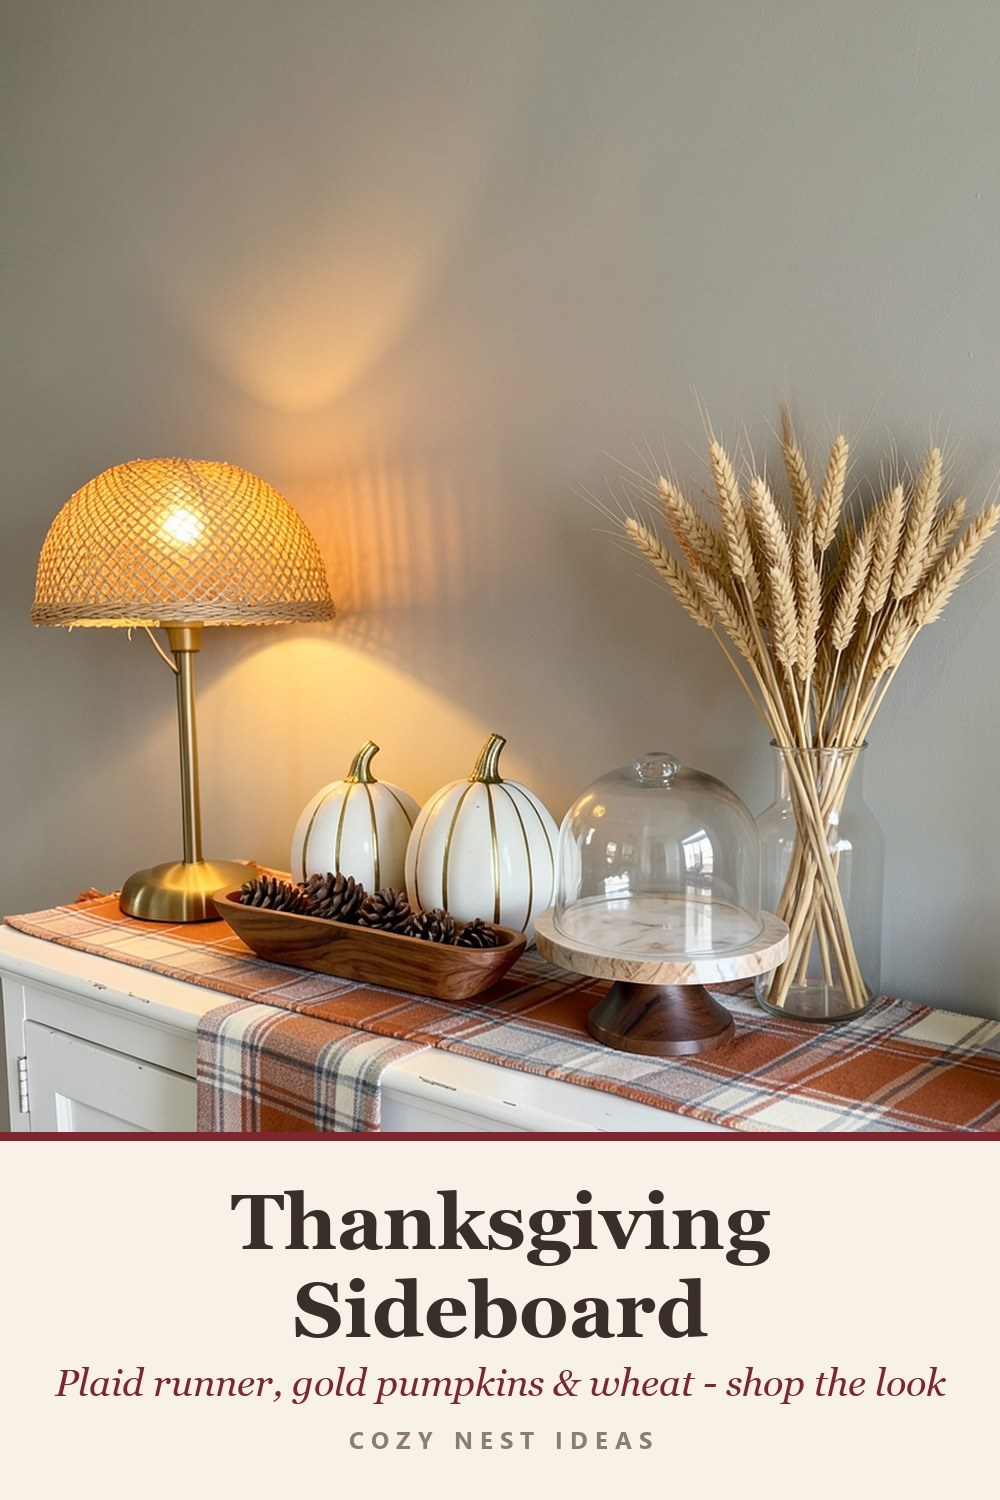
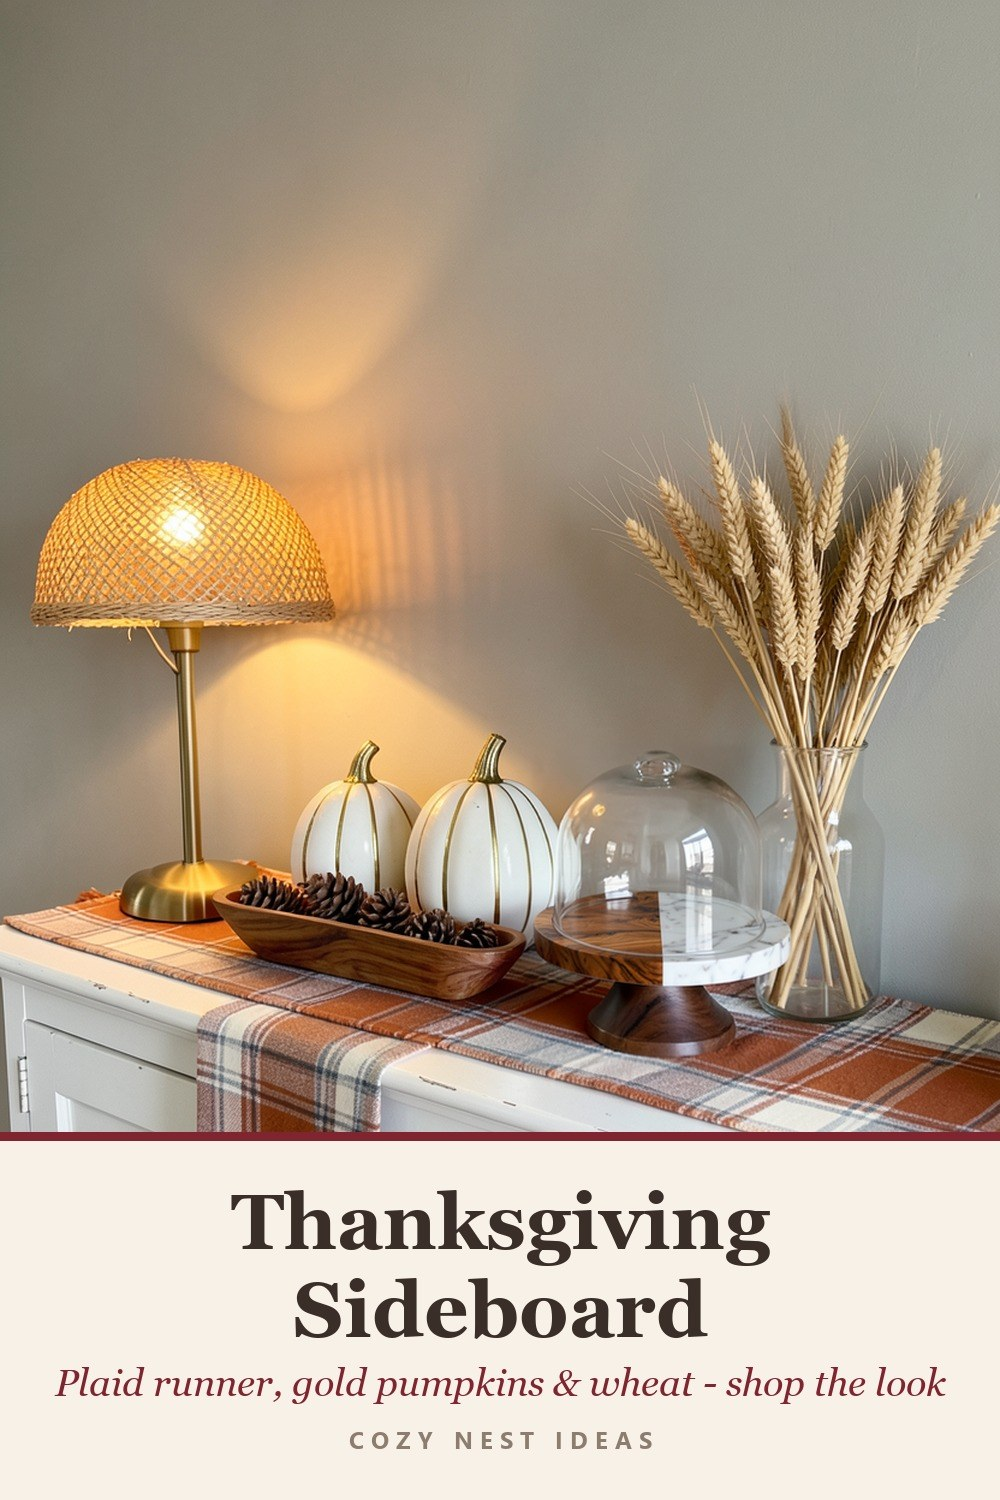
Thanksgiving sideboard: cake stand half wood half marble like the product

diff --git a/index.html b/index.html
@@ -3,7 +3,7 @@
 <meta name="p:domain_verify" content="4409502b235040ad3e69c63925a18982"/>
 <title>Cozy Nest Ideas | Cozy Nest Ideas</title>
 <meta name="description" content="Cozy home and seasonal decor ideas with shop-the-look lists.">
-<link rel="stylesheet" href="style.css?v=1793998222">
+<link rel="stylesheet" href="style.css?v=1793999030">
 <script data-goatcounter="https://cozynestideas.goatcounter.com/count" async src="//gc.zgo.at/count.js"></script></head><body><div class="wrap">
 <header><a href="index.html">C O Z Y &nbsp; N E S T &nbsp; I D E A S</a></header>
 <h1>Cozy home ideas</h1><p class="intro">Cozy, seasonal room ideas, each with the pieces to shop the look.</p><div class="grid"><a class="card" href="cozy-winter-bedroom/index.html"><img src="cozy-winter-bedroom/room.jpg" alt="Cozy Winter Bedroom Ideas" loading="lazy"><span>Cozy Winter Bedroom Ideas</span></a><a class="card" href="christmas-living-room/index.html"><img src="christmas-living-room/room.jpg" alt="Cozy Christmas Living Room Ideas" loading="lazy"><span>Cozy Christmas Living Room Ideas</span></a><a class="card" href="safari-nursery/index.html"><img src="safari-nursery/room.jpg" alt="Neutral Safari Nursery Ideas" loading="lazy"><span>Neutral Safari Nursery Ideas</span></a><a class="card" href="christmas-mantel/index.html"><img src="christmas-mantel/room.jpg" alt="Cozy Christmas Mantel Ideas" loading="lazy"><span>Cozy Christmas Mantel Ideas</span></a><a class="card" href="thanksgiving-table/index.html"><img src="thanksgiving-table/room.jpg" alt="Cozy Thanksgiving Table Ideas" loading="lazy"><span>Cozy Thanksgiving Table Ideas</span></a><a class="card" href="boho-nursery/index.html"><img src="boho-nursery/room.jpg" alt="Boho Baby Girl Nursery Ideas" loading="lazy"><span>Boho Baby Girl Nursery Ideas</span></a><a class="card" href="fall-reading-nook/index.html"><img src="fall-reading-nook/room.jpg" alt="Cozy Fall Reading Nook Ideas" loading="lazy"><span>Cozy Fall Reading Nook Ideas</span></a><a class="card" href="christmas-entryway/index.html"><img src="christmas-entryway/room.jpg" alt="Scandinavian Christmas Entryway Ideas" loading="lazy"><span>Scandinavian Christmas Entryway Ideas</span></a><a class="card" href="coffee-bar-ideas/index.html"><img src="coffee-bar-ideas/room.jpg" alt="Cozy Coffee Bar Ideas for Home" loading="lazy"><span>Cozy Coffee Bar Ideas for Home</span></a><a class="card" href="spa-bathroom-ideas/index.html"><img src="spa-bathroom-ideas/room.jpg" alt="Spa Bathroom Ideas on a Budget" loading="lazy"><span>Spa Bathroom Ideas on a Budget</span></a><a class="card" href="home-office-nook/index.html"><img src="home-office-nook/room.jpg" alt="Cozy Home Office Nook Ideas" loading="lazy"><span>Cozy Home Office Nook Ideas</span></a><a class="card" href="christmas-dinner-table/index.html"><img src="christmas-dinner-table/room.jpg" alt="Cozy Christmas Dinner Table Ideas" loading="lazy"><span>Cozy Christmas Dinner Table Ideas</span></a><a class="card" href="sage-laundry-room/index.html"><img src="sage-laundry-room/room.jpg" alt="Sage Green Laundry Room Ideas" loading="lazy"><span>Sage Green Laundry Room Ideas</span></a><a class="card" href="indoor-plant-corner/index.html"><img src="indoor-plant-corner/room.jpg" alt="Sunny Indoor Plant Corner Ideas" loading="lazy"><span>Sunny Indoor Plant Corner Ideas</span></a><a class="card" href="neutral-safari-nursery/index.html"><img src="neutral-safari-nursery/room.jpg" alt="Neutral Safari Nursery Ideas" loading="lazy"><span>Neutral Safari Nursery Ideas</span></a><a class="card" href="fall-front-porch/index.html"><img src="fall-front-porch/room.jpg" alt="Fall Front Porch Ideas" loading="lazy"><span>Fall Front Porch Ideas</span></a><a class="card" href="breakfast-nook-ideas/index.html"><img src="breakfast-nook-ideas/room.jpg" alt="Cozy Breakfast Nook Ideas" loading="lazy"><span>Cozy Breakfast Nook Ideas</span></a><a class="card" href="plaid-christmas-bedroom/index.html"><img src="plaid-christmas-bedroom/room.jpg" alt="Plaid Christmas Bedroom Ideas" loading="lazy"><span>Plaid Christmas Bedroom Ideas</span></a><a class="card" href="japandi-living-room/index.html"><img src="japandi-living-room/room.jpg" alt="Calm Japandi Living Room Ideas" loading="lazy"><span>Calm Japandi Living Room Ideas</span></a><a class="card" href="fall-bar-cart/index.html"><img src="fall-bar-cart/room.jpg" alt="Cozy Fall Bar Cart Ideas" loading="lazy"><span>Cozy Fall Bar Cart Ideas</span></a><a class="card" href="small-apartment-christmas/index.html"><img src="small-apartment-christmas/room.jpg" alt="Small Apartment Christmas Ideas" loading="lazy"><span>Small Apartment Christmas Ideas</span></a><a class="card" href="thanksgiving-sideboard/index.html"><img src="thanksgiving-sideboard/room.jpg" alt="Thanksgiving Sideboard Decor Ideas" loading="lazy"><span>Thanksgiving Sideboard Decor Ideas</span></a></div>

diff --git a/christmas-mantel/index.html b/christmas-mantel/index.html
@@ -3,7 +3,7 @@
 <meta name="p:domain_verify" content="4409502b235040ad3e69c63925a18982"/>
 <title>Cozy Christmas Mantel Ideas | Cozy Nest Ideas</title>
 <meta name="description" content="A classic, glowing Christmas mantel: a lush pine garland with pine cones, a lit berry wreath, brass candlesticks with fluted taper candles, sage pillar candles, a tiny lit wooden village and chunky knit stockings. Here are the pieces to recreate it.">
-<link rel="stylesheet" href="../style.css?v=1793998222">
+<link rel="stylesheet" href="../style.css?v=1793999030">
 <script data-goatcounter="https://cozynestideas.goatcounter.com/count" async src="//gc.zgo.at/count.js"></script></head><body><div class="wrap">
 <header><a href="../index.html">C O Z Y &nbsp; N E S T &nbsp; I D E A S</a></header>
 <div class="disc">As an Amazon Associate I earn from qualifying purchases. Links on this page are affiliate links.</div>

diff --git a/thanksgiving-table/index.html b/thanksgiving-table/index.html
@@ -3,7 +3,7 @@
 <meta name="p:domain_verify" content="4409502b235040ad3e69c63925a18982"/>
 <title>Cozy Thanksgiving Table Ideas | Cozy Nest Ideas</title>
 <meta name="description" content="A warm, candlelit Thanksgiving table: a soft taupe linen tablecloth, a pine and eucalyptus runner dotted with cream and orange pumpkins, tall brown taper candles in brass and glowing amber votives. Here are the pieces to set it.">
-<link rel="stylesheet" href="../style.css?v=1793998222">
+<link rel="stylesheet" href="../style.css?v=1793999030">
 <script data-goatcounter="https://cozynestideas.goatcounter.com/count" async src="//gc.zgo.at/count.js"></script></head><body><div class="wrap">
 <header><a href="../index.html">C O Z Y &nbsp; N E S T &nbsp; I D E A S</a></header>
 <div class="disc">As an Amazon Associate I earn from qualifying purchases. Links on this page are affiliate links.</div>

diff --git a/boho-nursery/index.html b/boho-nursery/index.html
@@ -3,7 +3,7 @@
 <meta name="p:domain_verify" content="4409502b235040ad3e69c63925a18982"/>
 <title>Boho Baby Girl Nursery Ideas | Cozy Nest Ideas</title>
 <meta name="description" content="A calm, airy boho nursery: a natural oak crib, soft floral sheets in pink and beige, a dusty rose macrame hanging, a wood bead garland, a faux olive tree and a fluffy tassel rug. Here are the pieces to recreate it.">
-<link rel="stylesheet" href="../style.css?v=1793998222">
+<link rel="stylesheet" href="../style.css?v=1793999030">
 <script data-goatcounter="https://cozynestideas.goatcounter.com/count" async src="//gc.zgo.at/count.js"></script></head><body><div class="wrap">
 <header><a href="../index.html">C O Z Y &nbsp; N E S T &nbsp; I D E A S</a></header>
 <div class="disc">As an Amazon Associate I earn from qualifying purchases. Links on this page are affiliate links.</div>

diff --git a/cozy-winter-bedroom/index.html b/cozy-winter-bedroom/index.html
@@ -3,7 +3,7 @@
 <meta name="p:domain_verify" content="4409502b235040ad3e69c63925a18982"/>
 <title>Cozy Winter Bedroom Ideas | Cozy Nest Ideas</title>
 <meta name="description" content="A soft, warm bedroom for long winter nights: a cloud-like white comforter, deep burgundy velvet, a plush grey sherpa throw and the glow of fairy lights and flickering candles. Here are the pieces to recreate the look.">
-<link rel="stylesheet" href="../style.css?v=1793998222">
+<link rel="stylesheet" href="../style.css?v=1793999030">
 <script data-goatcounter="https://cozynestideas.goatcounter.com/count" async src="//gc.zgo.at/count.js"></script></head><body><div class="wrap">
 <header><a href="../index.html">C O Z Y &nbsp; N E S T &nbsp; I D E A S</a></header>
 <div class="disc">As an Amazon Associate I earn from qualifying purchases. Links on this page are affiliate links.</div>

diff --git a/fall-reading-nook/index.html b/fall-reading-nook/index.html
@@ -3,7 +3,7 @@
 <meta name="p:domain_verify" content="4409502b235040ad3e69c63925a18982"/>
 <title>Cozy Fall Reading Nook Ideas | Cozy Nest Ideas</title>
 <meta name="description" content="A snug reading corner for autumn: a cloud-like sherpa barrel chair, a chunky knit throw, a chocolate corduroy pillow, a warm arc lamp, rustic floating shelves and a pumpkin candle burning on the side table.">
-<link rel="stylesheet" href="../style.css?v=1793998222">
+<link rel="stylesheet" href="../style.css?v=1793999030">
 <script data-goatcounter="https://cozynestideas.goatcounter.com/count" async src="//gc.zgo.at/count.js"></script></head><body><div class="wrap">
 <header><a href="../index.html">C O Z Y &nbsp; N E S T &nbsp; I D E A S</a></header>
 <div class="disc">As an Amazon Associate I earn from qualifying purchases. Links on this page are affiliate links.</div>

diff --git a/small-apartment-christmas/index.html b/small-apartment-christmas/index.html
@@ -3,7 +3,7 @@
 <meta name="p:domain_verify" content="4409502b235040ad3e69c63925a18982"/>
 <title>Small Apartment Christmas Ideas | Cozy Nest Ideas</title>
 <meta name="description" content="Christmas in a small space: a skinny pre-lit spruce in a woven basket collar, gold mercury glass ornaments, green corduroy pillows, a chunky knit throw and dried orange garland strands in the window.">
-<link rel="stylesheet" href="../style.css?v=1793998222">
+<link rel="stylesheet" href="../style.css?v=1793999030">
 <script data-goatcounter="https://cozynestideas.goatcounter.com/count" async src="//gc.zgo.at/count.js"></script></head><body><div class="wrap">
 <header><a href="../index.html">C O Z Y &nbsp; N E S T &nbsp; I D E A S</a></header>
 <div class="disc">As an Amazon Associate I earn from qualifying purchases. Links on this page are affiliate links.</div>

diff --git a/thanksgiving-sideboard/index.html b/thanksgiving-sideboard/index.html
@@ -3,7 +3,7 @@
 <meta name="p:domain_verify" content="4409502b235040ad3e69c63925a18982"/>
 <title>Thanksgiving Sideboard Decor Ideas | Cozy Nest Ideas</title>
 <meta name="description" content="A warm Thanksgiving sideboard: a rust plaid runner, a long wooden dough bowl of pine cones, gold-ribbed ceramic pumpkins, a cake stand with a glass cloche, dried wheat and a glowing rattan lamp.">
-<link rel="stylesheet" href="../style.css?v=1793998222">
+<link rel="stylesheet" href="../style.css?v=1793999030">
 <script data-goatcounter="https://cozynestideas.goatcounter.com/count" async src="//gc.zgo.at/count.js"></script></head><body><div class="wrap">
 <header><a href="../index.html">C O Z Y &nbsp; N E S T &nbsp; I D E A S</a></header>
 <div class="disc">As an Amazon Associate I earn from qualifying purchases. Links on this page are affiliate links.</div>

diff --git a/christmas-living-room/index.html b/christmas-living-room/index.html
@@ -3,7 +3,7 @@
 <meta name="p:domain_verify" content="4409502b235040ad3e69c63925a18982"/>
 <title>Cozy Christmas Living Room Ideas | Cozy Nest Ideas</title>
 <meta name="description" content="A warm, classic Christmas corner: a glowing pre-lit tree in champagne ornaments, cable-knit stockings on a garland-draped mantel, flickering candles and soft velvet and sherpa layers on the sofa.">
-<link rel="stylesheet" href="../style.css?v=1793998222">
+<link rel="stylesheet" href="../style.css?v=1793999030">
 <script data-goatcounter="https://cozynestideas.goatcounter.com/count" async src="//gc.zgo.at/count.js"></script></head><body><div class="wrap">
 <header><a href="../index.html">C O Z Y &nbsp; N E S T &nbsp; I D E A S</a></header>
 <div class="disc">As an Amazon Associate I earn from qualifying purchases. Links on this page are affiliate links.</div>

diff --git a/christmas-entryway/index.html b/christmas-entryway/index.html
@@ -3,7 +3,7 @@
 <meta name="p:domain_verify" content="4409502b235040ad3e69c63925a18982"/>
 <title>Scandinavian Christmas Entryway Ideas | Cozy Nest Ideas</title>
 <meta name="description" content="A bright, simple Christmas welcome: a slim snow-flocked tree, a eucalyptus wreath on a round mirror, a bamboo bench with a tartan pillow, glowing lanterns and a cozy woven blanket basket.">
-<link rel="stylesheet" href="../style.css?v=1793998222">
+<link rel="stylesheet" href="../style.css?v=1793999030">
 <script data-goatcounter="https://cozynestideas.goatcounter.com/count" async src="//gc.zgo.at/count.js"></script></head><body><div class="wrap">
 <header><a href="../index.html">C O Z Y &nbsp; N E S T &nbsp; I D E A S</a></header>
 <div class="disc">As an Amazon Associate I earn from qualifying purchases. Links on this page are affiliate links.</div>

diff --git a/safari-nursery/index.html b/safari-nursery/index.html
@@ -3,7 +3,7 @@
 <meta name="p:domain_verify" content="4409502b235040ad3e69c63925a18982"/>
 <title>Neutral Safari Nursery Ideas | Cozy Nest Ideas</title>
 <meta name="description" content="A calm, gender-neutral safari nursery: a crisp white crib under a playful jungle mobile, a cozy grey glider for night feeds, book ledges at the ready and woven baskets that keep everything tidy.">
-<link rel="stylesheet" href="../style.css?v=1793998222">
+<link rel="stylesheet" href="../style.css?v=1793999030">
 <script data-goatcounter="https://cozynestideas.goatcounter.com/count" async src="//gc.zgo.at/count.js"></script></head><body><div class="wrap">
 <header><a href="../index.html">C O Z Y &nbsp; N E S T &nbsp; I D E A S</a></header>
 <div class="disc">As an Amazon Associate I earn from qualifying purchases. Links on this page are affiliate links.</div>

diff --git a/plaid-christmas-bedroom/index.html b/plaid-christmas-bedroom/index.html
@@ -3,7 +3,7 @@
 <meta name="p:domain_verify" content="4409502b235040ad3e69c63925a18982"/>
 <title>Plaid Christmas Bedroom Ideas | Cozy Nest Ideas</title>
 <meta name="description" content="A cozy cabin-style Christmas bedroom: red tartan flannel sheets and pillows, a crisp white duvet, a chunky knit throw, a wood bead garland, a snowy mini tree and a glowing lantern.">
-<link rel="stylesheet" href="../style.css?v=1793998222">
+<link rel="stylesheet" href="../style.css?v=1793999030">
 <script data-goatcounter="https://cozynestideas.goatcounter.com/count" async src="//gc.zgo.at/count.js"></script></head><body><div class="wrap">
 <header><a href="../index.html">C O Z Y &nbsp; N E S T &nbsp; I D E A S</a></header>
 <div class="disc">As an Amazon Associate I earn from qualifying purchases. Links on this page are affiliate links.</div>
